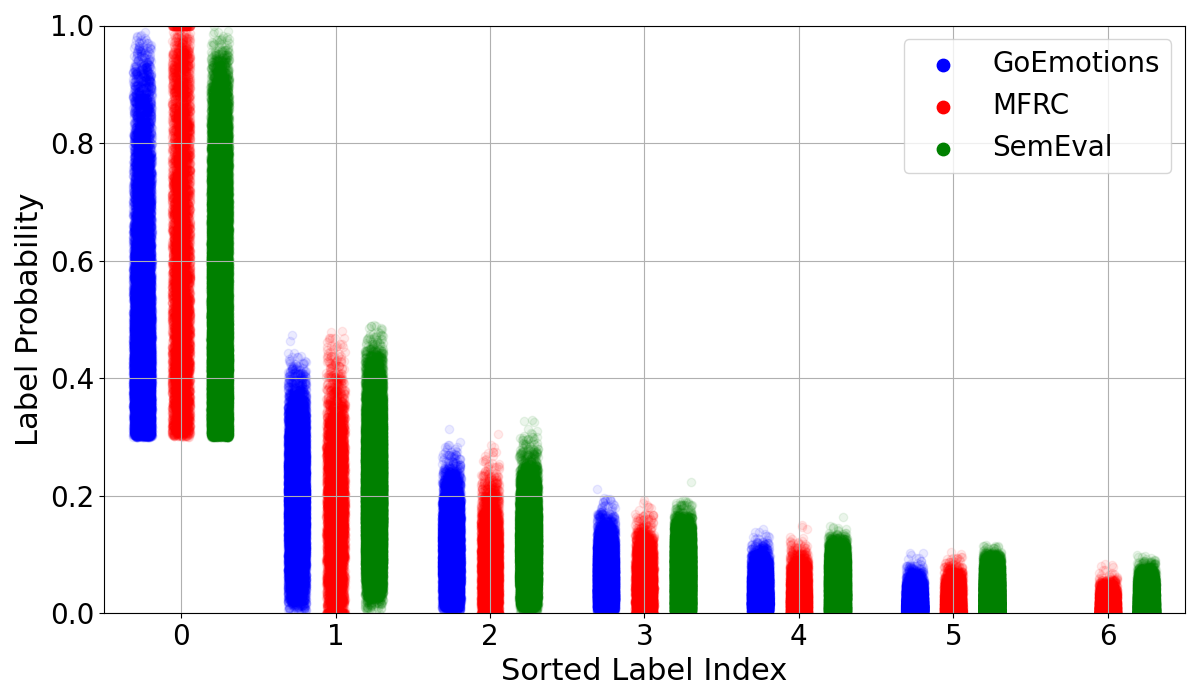
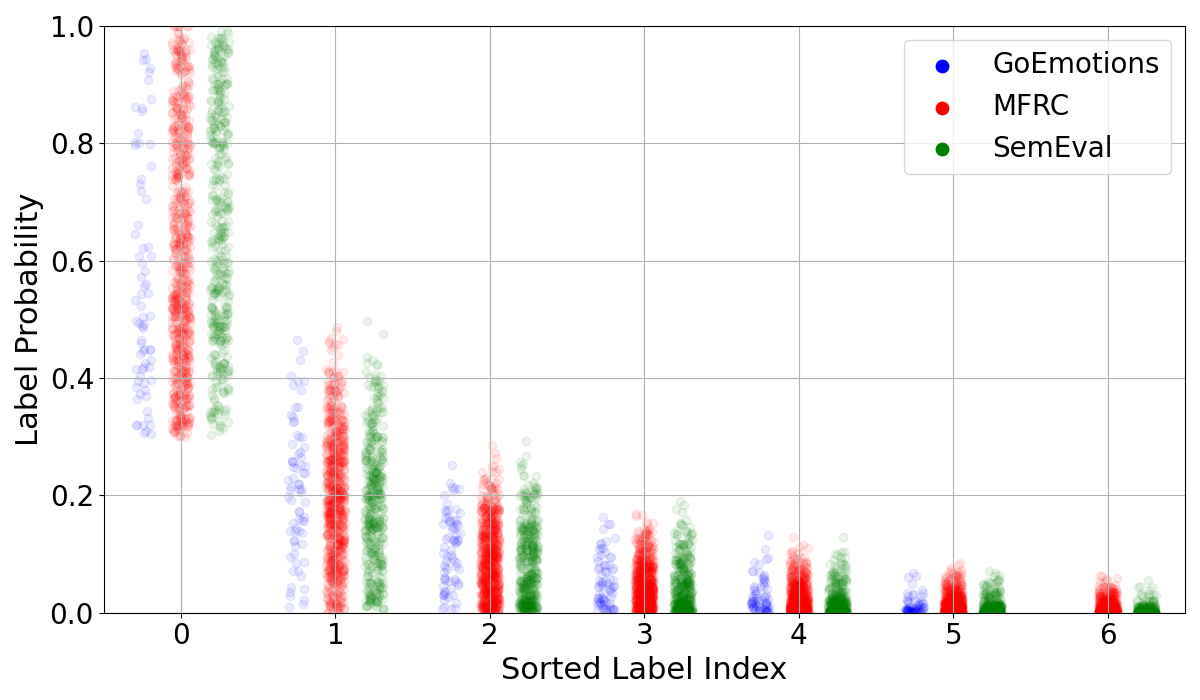
fix spikiness graphs

diff --git a/scripts/prob_distr/plot_spikiness.py b/scripts/prob_distr/plot_spikiness.py
@@ -52,7 +52,7 @@ def plot_multilabel_icl(yaml_files, save_path):
         points = get_graph_probs(data)
         # Legend entry (one per dataset; outside loop so we get it even if points is empty)
         plt.scatter([], [], color=color, alpha=1, label=label, s=80)
-        for x, probs in enumerate(points):
+        for x, probs in enumerate(points[:7]):  # cutoff indices 7-10, show 0-6 only
             jitter = x_offset * (i - 1)  # -0.25, 0.0, 0.25 for three datasets
             jittered_x = x + jitter + 0.12 * (np.random.random(len(probs)) - 0.5)
             plt.scatter(jittered_x, probs, color=color, alpha=0.08)
@@ -73,26 +73,46 @@ def plot_multilabel_icl(yaml_files, save_path):
     
         
 if __name__ == '__main__':
+    # Datasets we want in the figure
     datasets = [
         'MFRC',
         'SemEval',
         'GoEmotions',
     ]
-    
-    models = [
-        # 'meta-llama--Llama-3.2-1B-Instruct_0',
-        # 'meta-llama--Llama-3.1-8B_0',
-        # 'meta-llama--Llama-3.3-70B-Instruct_0',
-        # 'Qwen--Qwen2.5-7B-Instruct_0',
-        '--mnt--data-hps--Llama-3.1-70B_0',
-    ]
-    
+
+    # For each dataset, automatically find the big_multilabel baseline run
+    # whose experiment directory name contains "Llama-3.1-8B-Instruct".
+    # This matches how the HPS baselines are stored, e.g.:
+    #   logs/<dataset>/big_multilabel/baseline/--mnt--data-hps--Llama-3.1-8B-Instruct_*/
     yaml_files = []
     for dataset in datasets:
-        for model in models:
-            yaml_file = os.path.join(PROJECT_ROOT, 'logs', dataset, 'full_dataset', 'baseline', model, 'indexed_metrics.yml')
+        baseline_dir = os.path.join(
+            PROJECT_ROOT,
+            'logs',
+            dataset,
+            'big_multilabel',
+            'baseline',
+        )
+        if not os.path.isdir(baseline_dir):
+            continue
+
+        for exp_name in os.listdir(baseline_dir):
+            if 'Llama-3.1-8B-Instruct' not in exp_name:
+                continue
+            yaml_file = os.path.join(
+                baseline_dir,
+                exp_name,
+                'indexed_metrics.yml',
+            )
             if os.path.exists(yaml_file):
                 yaml_files.append(yaml_file)
-    
-    save_path = os.path.join(PROJECT_ROOT, 'scripts', 'prob_distr', 'figures', 'spikiness.png')
+                break  # only need one baseline per dataset
+
+    save_path = os.path.join(
+        PROJECT_ROOT,
+        'scripts',
+        'prob_distr',
+        'figures',
+        'spikiness.png',
+    )
     plot_multilabel_icl(yaml_files, save_path=save_path)

diff --git a/cot/plot_spikiness_cot.py b/cot/plot_spikiness_cot.py
@@ -23,6 +23,9 @@ def get_graph_probs(data):
     for example_id, example in data.items():
         if len(example["test_scores"]) == 0:
             continue
+        # Match main script: skip ratio variants (SemEval ICL); no-op if ids have no ratio
+        if "ratio_0.0" in example_id or "ratio_0.2" in example_id or "ratio_0.6" in example_id or "ratio_0.8" in example_id or "ratio_1.0" in example_id:
+            continue
 
         distr = example["test_scores"]
         if "none" in distr:
@@ -59,7 +62,7 @@ def plot_multilabel_icl(yaml_files, dataset_names, save_path):
         points = get_graph_probs(data)
         # Legend entry (one per dataset; outside loop so we get it even if points is empty)
         plt.scatter([], [], color=color, alpha=1, label=label, s=80)
-        for x, probs in enumerate(points):
+        for x, probs in enumerate(points[:7]):  # cutoff indices 7-10, show 0-6 only
             jitter = x_offset * (i - 1)  # -0.25, 0.0, 0.25 for three datasets
             jittered_x = (
                 x + jitter + 0.12 * (np.random.random(len(probs)) - 0.5)
@@ -68,9 +71,9 @@ def plot_multilabel_icl(yaml_files, dataset_names, save_path):
 
     plt.xlabel("Sorted Label Index", fontsize=22)
     plt.ylabel("Label Probability", fontsize=22)
-    plt.xticks([0, 1, 2, 3, 4, 5, 6, 7, 8, 9, 10], fontsize=20)
+    plt.xticks([0, 1, 2, 3, 4, 5, 6], fontsize=20)
     plt.yticks(fontsize=20)
-    plt.xlim(-0.5, 10.5)
+    plt.xlim(-0.5, 6.5)
     plt.ylim(0, 1)
     plt.grid(True)
     plt.legend(loc="upper right", fontsize=20)

diff --git a/cot_fewshot/plot_spikiness_cot_fewshot.py b/cot_fewshot/plot_spikiness_cot_fewshot.py
@@ -22,6 +22,9 @@ def get_graph_probs(data):
     for example_id, example in data.items():
         if len(example["test_scores"]) == 0:
             continue
+        # Match main script: skip ratio variants (SemEval ICL); no-op if ids have no ratio
+        if "ratio_0.0" in example_id or "ratio_0.2" in example_id or "ratio_0.6" in example_id or "ratio_0.8" in example_id or "ratio_1.0" in example_id:
+            continue
 
         distr = example["test_scores"]
         if "none" in distr:
@@ -55,7 +58,7 @@ def plot_multilabel_icl(yaml_files, dataset_names, save_path):
         data = load_data_from_yaml(yaml_file)
         points = get_graph_probs(data)
         plt.scatter([], [], color=color, alpha=1, label=label, s=80)
-        for x, probs in enumerate(points):
+        for x, probs in enumerate(points[:7]):  # cutoff indices 7-10, show 0-6 only
             jitter = x_offset * (i - 1)
             jittered_x = (
                 x + jitter + 0.12 * (np.random.random(len(probs)) - 0.5)
@@ -64,9 +67,9 @@ def plot_multilabel_icl(yaml_files, dataset_names, save_path):
 
     plt.xlabel("Sorted Label Index", fontsize=22)
     plt.ylabel("Label Probability", fontsize=22)
-    plt.xticks([0, 1, 2, 3, 4, 5, 6, 7, 8, 9, 10], fontsize=20)
+    plt.xticks([0, 1, 2, 3, 4, 5, 6], fontsize=20)
     plt.yticks(fontsize=20)
-    plt.xlim(-0.5, 10.5)
+    plt.xlim(-0.5, 6.5)
     plt.ylim(0, 1)
     plt.grid(True)
     plt.legend(loc="upper right", fontsize=20)
